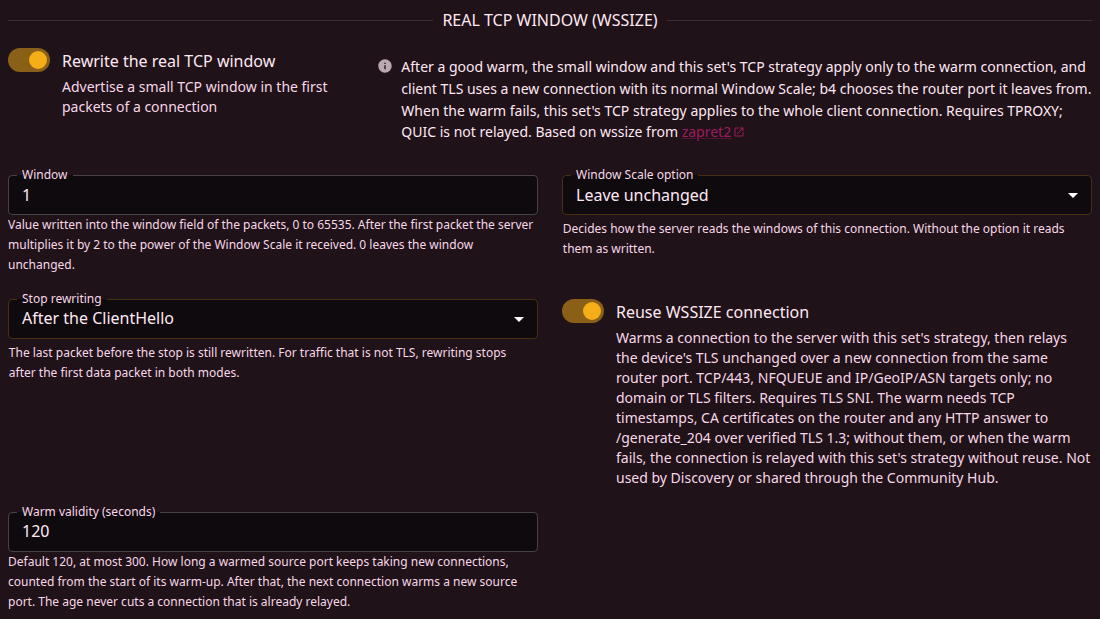
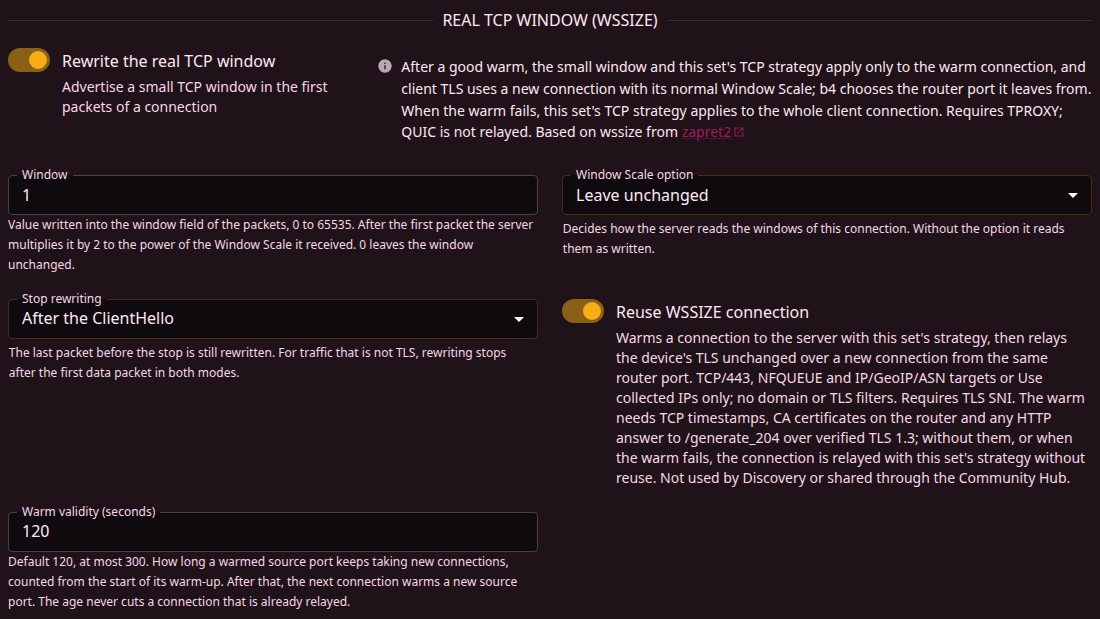
fix(ui): name Use collected IPs in the reuse switch description
The Reuse WSSIZE connection description named IP, GeoIP and ASN
targets as the only ones a reusing set may have, but the save check
also takes Use collected IPs as the set's IP target. Both locales now
name the switch by its label on the Targets tab, and a config test
fails when either description leaves it out. The rest of the sentence
matches the code and stays as it was.

The Real TCP window (wssize) screenshots on TCP, General are reshot in
both locales with the new text.

Changed region(s): [[0.5564, 0.5832, 0.9891, 0.7981]]

diff --git a/src/config/wssize_reuse_i18n_test.go b/src/config/wssize_reuse_i18n_test.go
@@ -93,3 +93,22 @@ func TestEnglishCollectAndReuseStringsUsePlainWords(t *testing.T) {
 		}
 	}
 }
+
+func TestReuseSwitchDescriptionNamesUseCollectedIPs(t *testing.T) {
+	c := reuseConfig(t)
+	c.Sets[0].Targets.IPs = nil
+	c.Sets[0].Targets.IpsToMatch = nil
+	c.Sets[0].Targets.UseCollectedIPs = true
+	if err := c.Validate(); err != nil {
+		t.Fatalf("a reuse set whose only target is Use collected IPs was refused: %v", err)
+	}
+	for locale, want := range useCollectedIPsLabel {
+		text, ok := uiStrings(t, locale)["sets.tcp.general.wssizeReuseDesc"]
+		if !ok {
+			t.Fatalf("%s.json has no sets.tcp.general.wssizeReuseDesc", locale)
+		}
+		if !strings.Contains(text, want) {
+			t.Errorf("%s sets.tcp.general.wssizeReuseDesc lists the targets a reuse set may have, and b4 saves one whose only target is Use collected IPs, but it does not name %q: %q", locale, want, text)
+		}
+	}
+}
